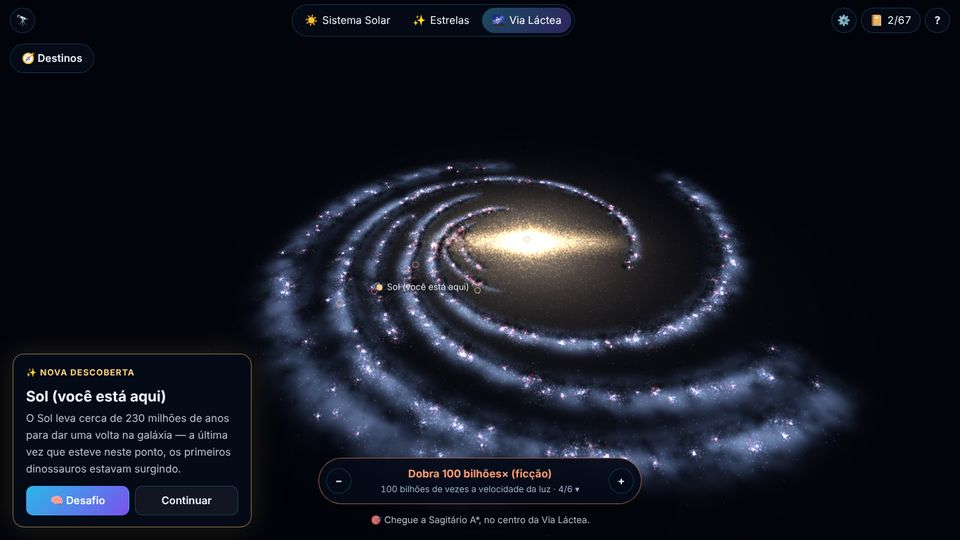
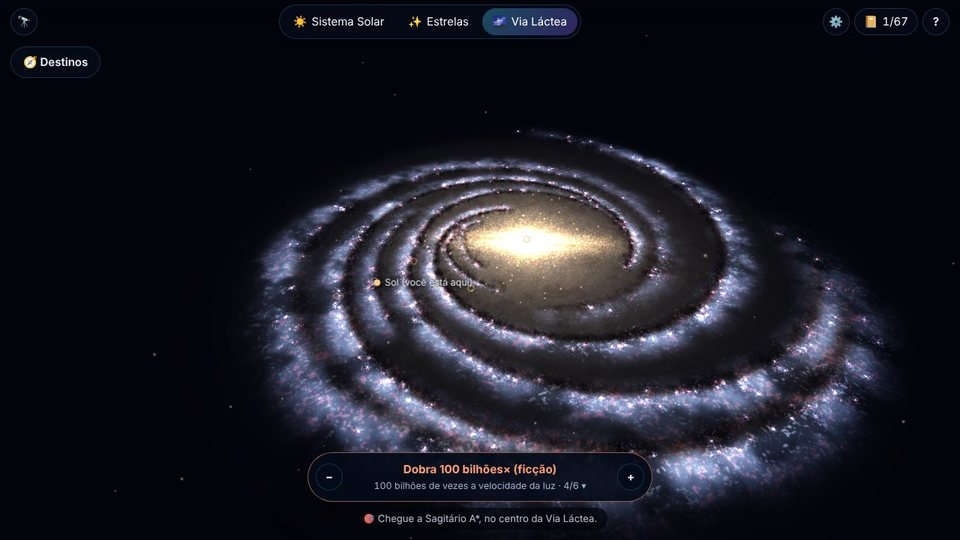
Captura nova da Via Láctea no README e quantidade da amostra da MMX como na JAXA
Claude-Session: https://claude.ai/code/session_018rZQndKJFgBvutsNBRZhZF

diff --git a/js/explorador/catalogo.js b/js/explorador/catalogo.js
@@ -661,7 +661,7 @@ export const LUAS = [
     curiosidade: "Está chegando mais perto de Marte, cerca de 1,8 metro a cada século: daqui a uns 50 milhões de anos ela vai cair no planeta ou se desfazer num anel.",
     fonte: "https://science.nasa.gov/mars/moons/phobos/",
     fontesDasNovidades: [["JAXA (sonda MMX, 2026)", "https://www.mmx.jaxa.jp/en/"]],
-    saibaMais: "Fobos dá a volta em Marte mais rápido do que Marte gira: visto do chão marciano, ele nasce no oeste e se põe no leste, duas vezes por dia. Fobos e Deimos podem ser asteroides capturados ou restos de uma grande colisão com Marte. Em outubro de 2026 o Japão lançou a sonda MMX, que vai pousar em Fobos, recolher pelo menos 10 gramas do solo e trazer a amostra para a Terra em 2031.",
+    saibaMais: "Fobos dá a volta em Marte mais rápido do que Marte gira: visto do chão marciano, ele nasce no oeste e se põe no leste, duas vezes por dia. Fobos e Deimos podem ser asteroides capturados ou restos de uma grande colisão com Marte. Em outubro de 2026 o Japão lançou a sonda MMX, que vai pousar em Fobos, recolher cerca de 10 gramas do solo e trazer a amostra para a Terra em 2031.",
     ficha: [
       ["Tipo", "Lua de Marte"],
       ["Tamanho", "27 × 22 × 18 km (formato de batata)"],

diff --git a/README.md b/README.md
@@ -12,7 +12,7 @@
 
 <p align="center">
   <img src="img/site/tela-explorador.jpg" width="32%" alt="Explorador: a nave em órbita de Saturno, com o painel do astro e o painel da nave">
-  <img src="img/site/tela-via-lactea.jpg" width="32%" alt="Explorador: a Via Láctea vista de cima, com o Sol marcado e o cartão de uma descoberta">
+  <img src="img/site/tela-via-lactea.jpg" width="32%" alt="Explorador: a Via Láctea vista de cima, com os braços espirais, a barra e o Sol marcado">
   <img src="img/site/tela-comparar.jpg" width="32%" alt="Comparador: a Terra e Júpiter lado a lado, na mesma escala">
 </p>
 
